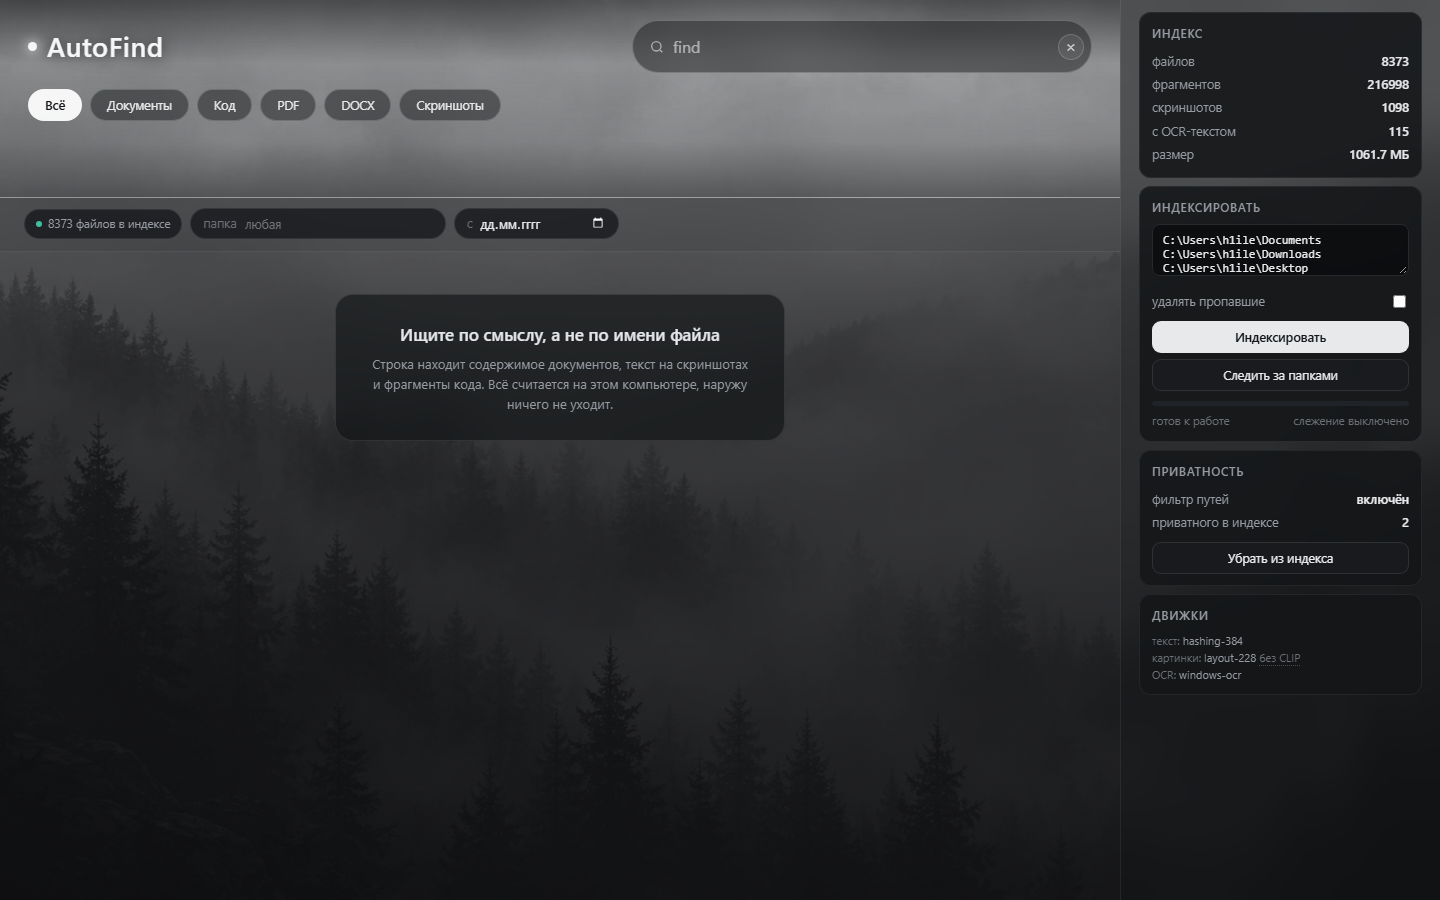
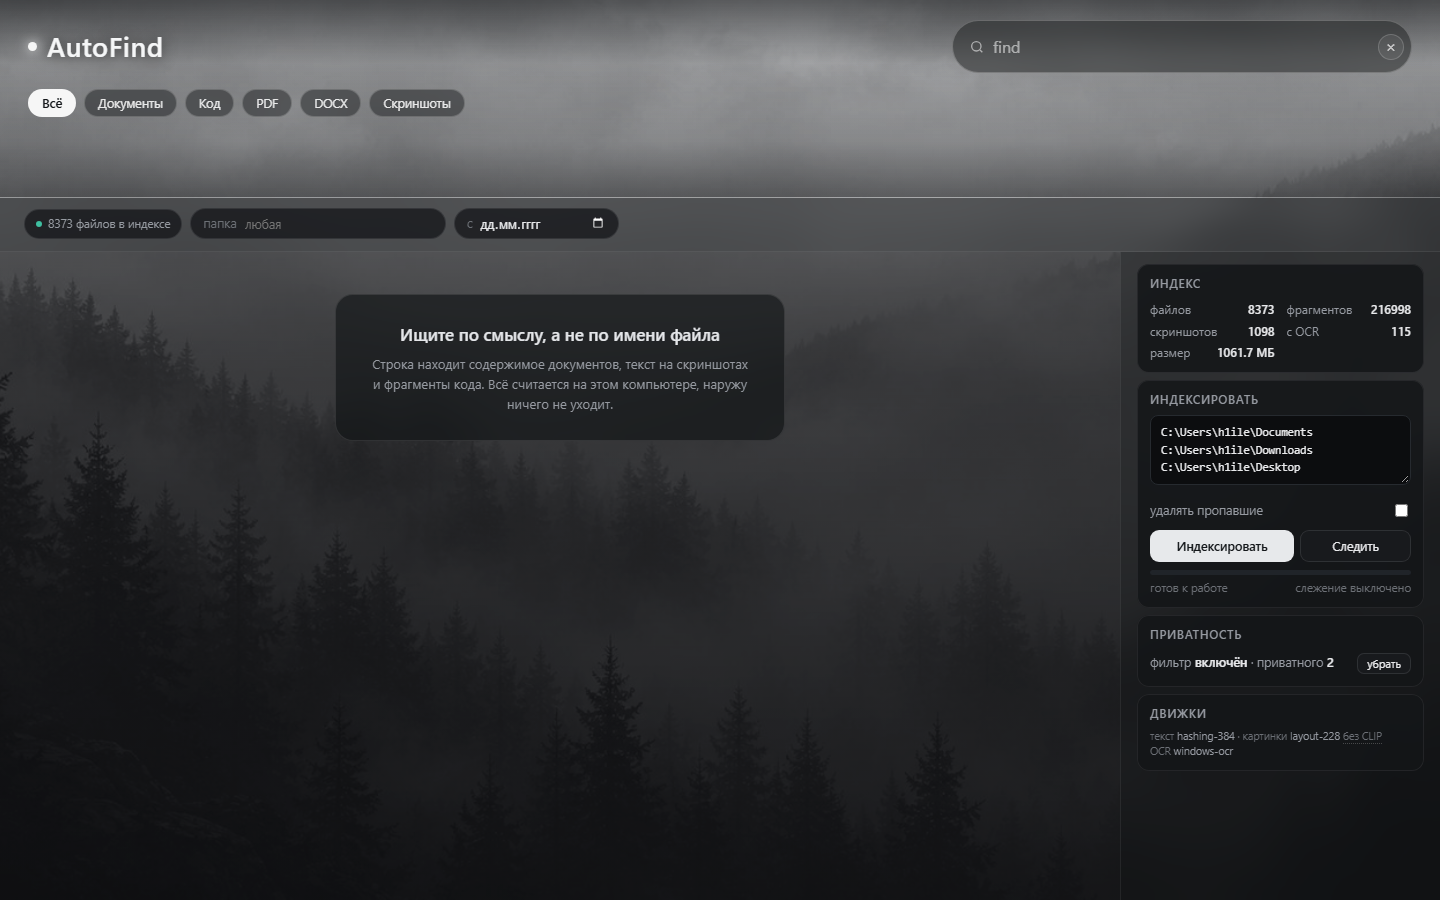
UI: sidebar back under the header, compact enough to fit a short window
Full-height sidebar cut the photo in half and looked wrong, so the grid is head/tools/main on the left and side in row three again. To keep all four panels visible at 700px the panels themselves got tighter: counters in a two-column grid, index/watch buttons side by side, privacy collapsed to one row, engines on two lines, paths box exactly three rows. Short windows (<=820px) give the hero 120px back.

diff --git a/web/style.css b/web/style.css
@@ -61,12 +61,9 @@ button, input, select { font-family: inherit; font-size: inherit; color: inherit
   display: grid;
   grid-template-columns: minmax(0, 1fr) 320px;
   grid-template-rows: auto auto minmax(0, 1fr);
-  /* The sidebar spans all three rows. It used to start below the hero and the
-     filter row, which left it ~450px tall on a 700px window: the privacy and
-     engine panels were cut off no matter how far you scrolled. */
   grid-template-areas:
-    "head side"
-    "tools side"
+    "head head"
+    "tools tools"
     "main side";
   height: 100vh;
   max-height: 100vh;
@@ -494,7 +491,7 @@ main {
 aside {
   grid-area: side;
   border-left: 1px solid rgba(255, 255, 255, 0.07);
-  padding: 16px 18px 40px;
+  padding: 14px 16px 16px;
   overflow-y: auto;
   background: rgba(11, 12, 14, 0.56);
   backdrop-filter: blur(16px) saturate(120%);
@@ -504,8 +501,8 @@ aside {
 .panel {
   border: 1px solid rgba(255, 255, 255, 0.07);
   border-radius: var(--radius);
-  padding: 11px 12px;
-  margin-bottom: 8px;
+  padding: 9px 12px 10px;
+  margin-bottom: 7px;
   background: rgba(22, 24, 27, 0.72);
   backdrop-filter: blur(10px);
 }
@@ -529,7 +526,7 @@ aside {
 
 .stat-row b { color: var(--text); font-weight: 600; font-variant-numeric: tabular-nums; }
 
-.engines { font-size: 11px; color: var(--faint); line-height: 1.55; }
+.engines { font-size: 10.5px; color: var(--faint); line-height: 1.45; }
 .engines span { color: var(--muted); }
 .engines .hint { color: var(--faint); border-bottom: 1px dotted rgba(255, 255, 255, 0.22); cursor: help; }
 
@@ -559,18 +556,60 @@ aside {
 .btn:hover { border-color: #3a4048; }
 .btn.primary { background: var(--accent); color: #15181b; border-color: transparent; font-weight: 600; }
 .btn.primary:hover { filter: brightness(0.92); }
+
+.btn.mini {
+  width: auto;
+  padding: 2px 9px;
+  font-size: 11px;
+  border-radius: 7px;
+}
+
+.row-end { display: inline-flex; align-items: center; gap: 8px; }
+
+/* Five counters in two columns instead of five stacked rows: 110px -> 62px,
+   which is what makes four panels fit a short window. */
+.stat-grid {
+  display: grid;
+  grid-template-columns: 1fr 1fr;
+  gap: 3px 12px;
+}
+
+.stat {
+  display: flex;
+  justify-content: space-between;
+  align-items: baseline;
+  gap: 6px;
+  min-width: 0;
+  font-size: 12px;
+  color: var(--muted);
+}
+
+.stat span { overflow: hidden; text-overflow: ellipsis; white-space: nowrap; }
+.stat b { color: var(--text); font-weight: 600; font-variant-numeric: tabular-nums; }
+
+.btn-row {
+  display: grid;
+  grid-template-columns: 1.3fr 1fr;
+  gap: 6px;
+  margin-top: 8px;
+}
+
+.btn-row .btn { width: 100%; }
 .btn:disabled { opacity: 0.5; cursor: default; }
 
 .paths {
   width: 100%;
-  min-height: 52px;
+  /* rows="3": the default folder list is three lines, and a half-cut line at
+     the bottom edge reads as a rendering bug rather than "it scrolls". */
+  min-height: 0;
   resize: vertical;
   background: rgba(10, 11, 13, 0.72);
   border: 1px solid var(--border);
   border-radius: 8px;
   padding: 8px 10px;
   color: var(--text);
-  font-size: 12px;
+  font-size: 11.5px;
+  line-height: 1.5;
   font-family: ui-monospace, SFMono-Regular, Menlo, Consolas, monospace;
   margin-bottom: 8px;
   outline: none;
@@ -581,7 +620,7 @@ aside {
   border-radius: 99px;
   background: #202429;
   overflow: hidden;
-  margin: 10px 0 6px;
+  margin: 8px 0 4px;
 }
 
 .progress > div {
@@ -696,6 +735,13 @@ aside {
     grid-template-areas: "head" "tools" "main";
   }
   aside { display: none; }
+}
+
+/* Short windows: the hero gives back height so the four sidebar panels still
+   fit under the filter row. */
+@media (max-height: 820px) {
+  .hero { min-height: 120px; padding-top: 12px; padding-bottom: 10px; }
+  .menu .chip { padding: 5px 13px; }
 }
 
 @media (max-width: 720px) {

diff --git a/web/index.html b/web/index.html
@@ -60,23 +60,27 @@
   <aside>
     <div class="panel">
       <h3>Индекс</h3>
-      <div class="stat-row"><span>файлов</span><b id="s-files">—</b></div>
-      <div class="stat-row"><span>фрагментов</span><b id="s-chunks">—</b></div>
-      <div class="stat-row"><span>скриншотов</span><b id="s-images">—</b></div>
-      <div class="stat-row"><span>с OCR-текстом</span><b id="s-ocr">—</b></div>
-      <div class="stat-row"><span>размер</span><b id="s-size">—</b></div>
+      <div class="stat-grid">
+        <div class="stat"><span>файлов</span><b id="s-files">—</b></div>
+        <div class="stat"><span>фрагментов</span><b id="s-chunks">—</b></div>
+        <div class="stat"><span>скриншотов</span><b id="s-images">—</b></div>
+        <div class="stat"><span>с OCR</span><b id="s-ocr">—</b></div>
+        <div class="stat"><span>размер</span><b id="s-size">—</b></div>
+      </div>
     </div>
 
     <div class="panel">
       <h3>Индексировать</h3>
-      <textarea class="paths" id="roots" spellcheck="false"
+      <textarea class="paths" id="roots" rows="3" spellcheck="false"
                 placeholder="По одной папке в строке"></textarea>
       <label class="stat-row" style="cursor:pointer">
         <span>удалять пропавшие</span>
         <input type="checkbox" id="prune">
       </label>
-      <button class="btn primary" id="index-btn" style="margin-top:8px">Индексировать</button>
-      <button class="btn" id="watch-btn" style="margin-top:6px">Следить за папками</button>
+      <div class="btn-row">
+        <button class="btn primary" id="index-btn">Индексировать</button>
+        <button class="btn" id="watch-btn">Следить</button>
+      </div>
       <div class="progress"><div id="bar"></div></div>
       <div class="status-line">
         <span class="progress-label" id="progress-label">готов к работе</span>
@@ -86,9 +90,10 @@
 
     <div class="panel">
       <h3>Приватность</h3>
-      <div class="stat-row"><span>фильтр путей</span><b id="p-enabled">—</b></div>
-      <div class="stat-row"><span>приватного в индексе</span><b id="p-count">—</b></div>
-      <button class="btn" id="purge-btn" style="margin-top:8px">Убрать из индекса</button>
+      <div class="stat-row">
+        <span>фильтр <b id="p-enabled">—</b> · приватного <b id="p-count">—</b></span>
+        <button class="btn mini" id="purge-btn">убрать</button>
+      </div>
     </div>
 
     <div class="panel">

diff --git a/web/app.js b/web/app.js
@@ -155,9 +155,8 @@ async function loadStats() {
 
     const engines = status.ocr?.available || [];
     $("engines").innerHTML = `
-      <div>текст: <span>${esc(status.text_embedder)}</span></div>
-      <div>картинки: <span>${esc(status.visual_embedder)}</span>${status.visual_supports_text ? "" : ' <span class="hint" title="без CLIP поиск по описанию недоступен">без CLIP</span>'}</div>
-      <div>OCR: <span>${engines.length ? esc(engines.join(", ")) : "не найден"}</span></div>`;
+      <div>текст <span>${esc(status.text_embedder)}</span> · картинки <span>${esc(status.visual_embedder)}</span>${status.visual_supports_text ? "" : ' <span class="hint" title="без CLIP поиск по описанию недоступен">без CLIP</span>'}</div>
+      <div>OCR <span>${engines.length ? esc(engines.join(", ")) : "не найден"}</span></div>`;
     if (!$("roots").value.trim() && status.default_roots?.length) {
       $("roots").value = status.default_roots.join("\n");
     }
